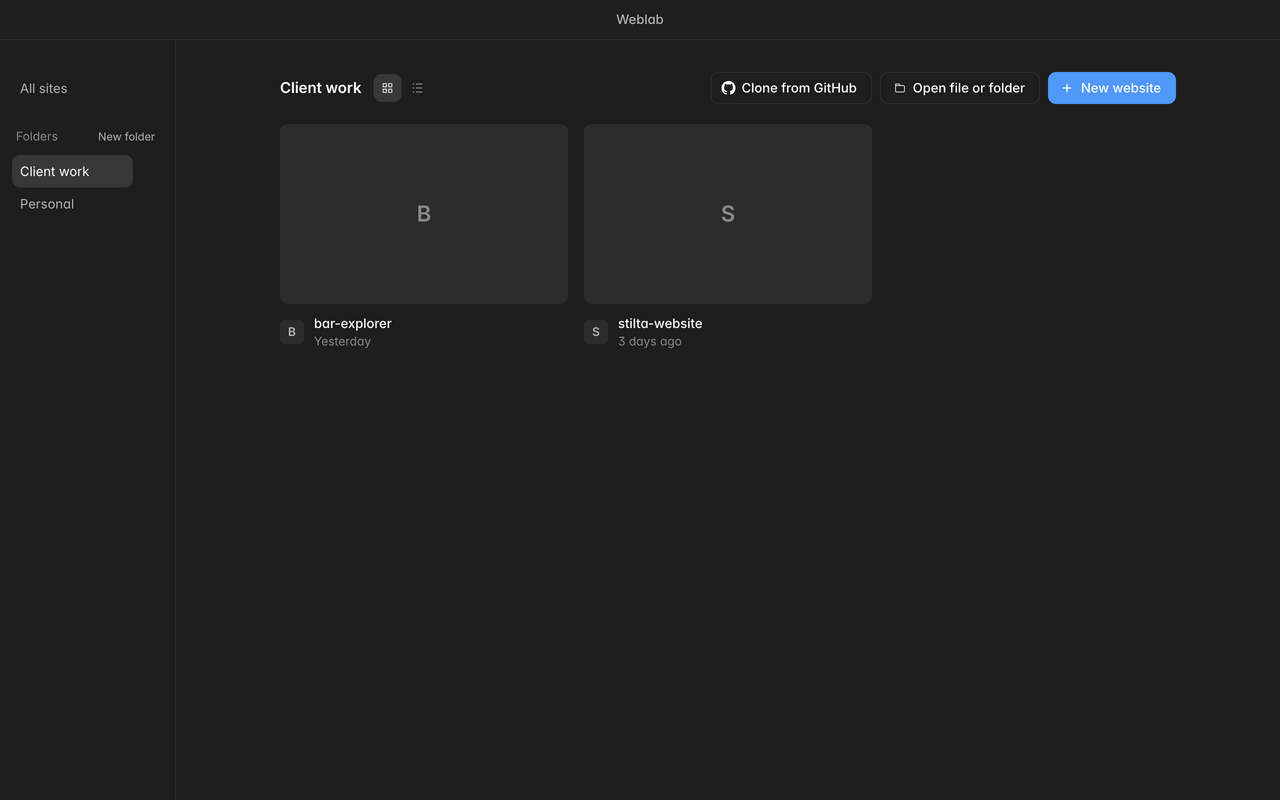
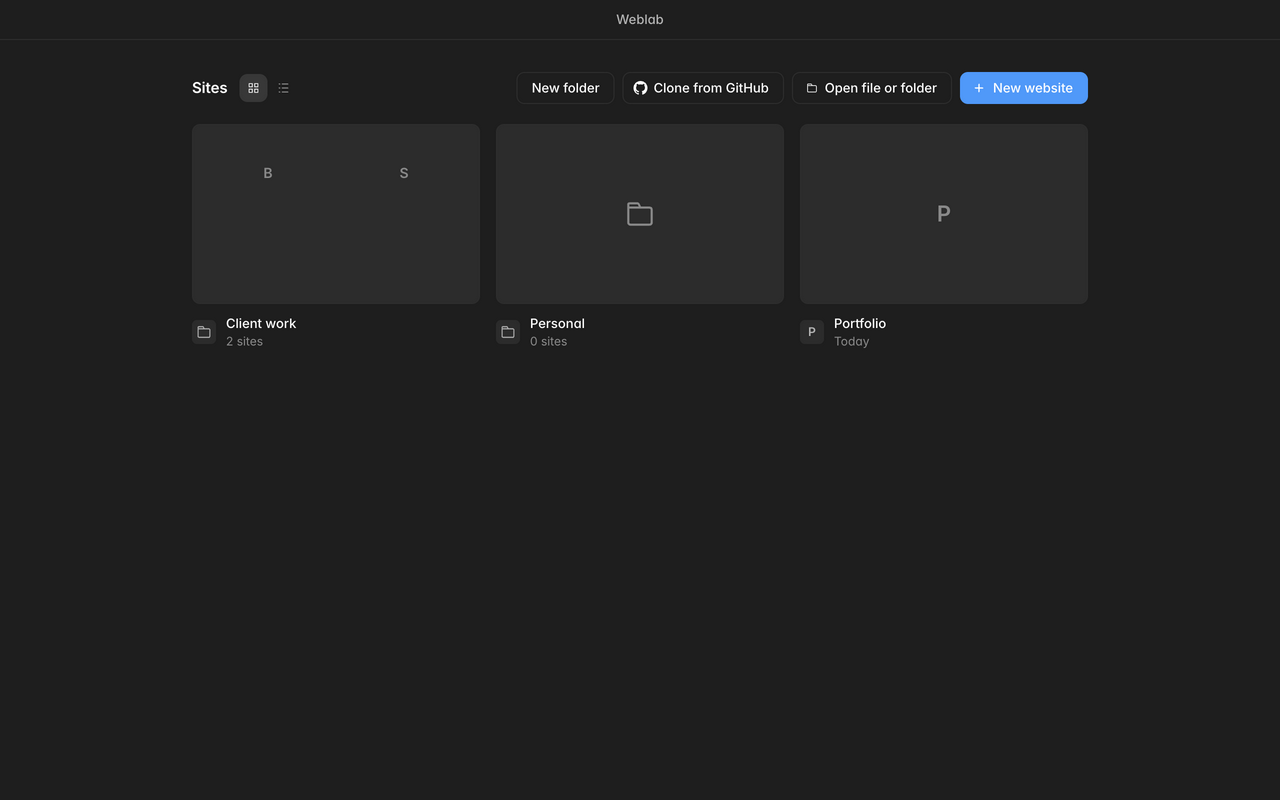
Show site folders as cards in the project grid

diff --git a/apps/desktop-local/apps/desktop/renderer/app.js b/apps/desktop-local/apps/desktop/renderer/app.js
@@ -176,64 +176,74 @@ function closeDialog(id) {
   if (previous?.isConnected) {
     previous.focus();
   } else {
-    $("#all-sites").focus();
+    $("#new-folder").focus();
   }
   dialogFocus.delete(id);
 }
 
-function selectFolder(id) {
+async function selectFolder(id) {
+  const previous = selectedFolder;
   selectedFolder = id;
   dashError("");
-  renderSites();
+  await renderSites();
+  const target = selectedFolder
+    ? $("#all-sites")
+    : $$(".folder-open").find(
+        (button) => button.dataset.folderId === previous
+      ) || $("#new-folder");
+  target.focus();
 }
 
 $("#all-sites").addEventListener("click", () => selectFolder(null));
 $("#folder-show-all").addEventListener("click", () => selectFolder(null));
 
-function renderFolders() {
-  $("#all-sites").setAttribute(
-    "aria-current",
-    selectedFolder ? "false" : "page"
-  );
-  const list = $("#folders");
-  list.textContent = "";
-  for (const folder of folders) {
-    const row = document.createElement("li");
-    row.className = "folder-row";
-    const button = document.createElement("button");
-    button.type = "button";
-    button.className = "folder-button";
-    button.textContent = folder.name;
-    button.title = folder.name;
-    button.setAttribute(
-      "aria-current",
-      folder.id === selectedFolder ? "page" : "false"
-    );
-    button.addEventListener("click", () => selectFolder(folder.id));
-    const more = document.createElement("button");
-    more.type = "button";
-    more.className = "more";
-    more.setAttribute("aria-label", `Actions for ${folder.name}`);
-    more.innerHTML = MORE_ICON;
-    const menu = async (event) => {
-      event.preventDefault();
-      try {
-        const result = await api.folders.menu(folder.id);
-        if (result === "rename") {
-          openFolderDialog(folder);
-        }
-        if (result === "removed") {
-          renderSites();
-        }
-      } catch (error) {
-        dashError(error.message || "Couldn’t open the folder menu.");
-      }
-    };
-    more.addEventListener("click", menu);
-    row.addEventListener("contextmenu", menu);
-    row.append(button, more);
-    list.append(row);
+function folderItem(folder, sites) {
+  const row = document.createElement("li");
+  row.className = "site folder-card";
+  const open = document.createElement("button");
+  open.type = "button";
+  open.className = "folder-open";
+  open.dataset.folderId = folder.id;
+  open.setAttribute("aria-label", `Open ${folder.name}, ${sites.length} sites`);
+  open.addEventListener("click", () => selectFolder(folder.id));
+  row.innerHTML =
+    '<div class="site-thumb folder-preview"></div><div class="site-identity"><div class="site-icon"><svg aria-hidden="true"><use href="#i-folder" /></svg></div><div class="site-text"><div class="site-name"></div><div class="site-when"></div></div></div>';
+  const preview = row.querySelector(".folder-preview");
+  for (const site of sites.slice(0, 4)) {
+    preview.append(thumb(site));
   }
+  if (!sites.length) {
+    preview.innerHTML =
+      '<svg aria-hidden="true"><use href="#i-folder" /></svg>';
+  }
+  row.querySelector(".site-name").textContent = folder.name;
+  row.querySelector(".site-when").textContent =
+    `${sites.length} ${sites.length === 1 ? "site" : "sites"}`;
+  row.append(open);
+  const more = document.createElement("button");
+  more.type = "button";
+  more.className = "more";
+  more.setAttribute("aria-label", `Actions for ${folder.name}`);
+  more.innerHTML = MORE_ICON;
+  const menu = async (event) => {
+    event.preventDefault();
+    event.stopPropagation();
+    try {
+      const result = await api.folders.menu(folder.id);
+      if (result === "rename") {
+        openFolderDialog(folder);
+      }
+      if (result === "removed") {
+        renderSites();
+      }
+    } catch (error) {
+      dashError(error.message || "Couldn’t open the folder menu.");
+    }
+  };
+  more.addEventListener("click", menu);
+  row.addEventListener("contextmenu", menu);
+  row.append(more);
+  return row;
 }
 
 function openFolderDialog(folder = null) {
@@ -254,7 +264,9 @@ function closeFolderDialog() {
   }
 }
 
-$("#new-folder").addEventListener("click", () => openFolderDialog());
+for (const button of $$("[data-action=folder], #new-folder")) {
+  button.addEventListener("click", () => openFolderDialog());
+}
 $("#folder-cancel").addEventListener("click", closeFolderDialog);
 $("#folder-dialog").addEventListener("mousedown", (event) => {
   if (event.target.id === "folder-dialog") {
@@ -731,14 +743,28 @@ async function renderSites() {
   if (selectedFolder && !folders.some((item) => item.id === selectedFolder)) {
     selectedFolder = null;
   }
-  renderFolders();
   const folder = folders.find((item) => item.id === selectedFolder);
+  $("#all-sites").hidden = !folder;
+  $("#folder-divider").hidden = !folder;
   $("#sites-heading").textContent = folder ? folder.name : "Sites";
+  if (!selectedFolder) {
+    for (const group of folders) {
+      ul.append(
+        folderItem(
+          group,
+          list.filter((site) => site.folderId === group.id)
+        )
+      );
+    }
+  }
   const visibleSites = selectedFolder
     ? list.filter((site) => site.folderId === selectedFolder)
-    : list;
-  $(".dash").hidden = !selectedFolder && list.length === 0;
-  $("#empty").hidden = Boolean(selectedFolder) || list.length > 0;
+    : list.filter(
+        (site) => !folders.some((group) => group.id === site.folderId)
+      );
+  const hasItems = list.length > 0 || folders.length > 0;
+  $(".dash").hidden = !(selectedFolder || hasItems);
+  $("#empty").hidden = Boolean(selectedFolder) || hasItems;
   $("#folder-empty").hidden = !selectedFolder || visibleSites.length > 0;
   for (const site of visibleSites) {
     ul.append(siteItem(site));

diff --git a/apps/desktop-local/apps/desktop/renderer/styles.css b/apps/desktop-local/apps/desktop/renderer/styles.css
@@ -940,72 +940,60 @@ button:disabled,
   cursor: default;
 }
 
-/* Site groups stay separate from the locations edited on disk. */
-.dashboard-layout {
-  display: grid;
-  grid-template-columns: 176px minmax(0, 1fr);
-}
+/* Library folders share the site grid and never change disk locations. */
 .dashboard-content {
   position: relative;
   min-width: 0;
   height: 100%;
 }
-.folder-nav {
-  padding: 32px 12px;
-  overflow-y: auto;
-  border-right: 1px solid var(--line);
-}
-.folder-nav-head {
+.sites-breadcrumb {
   display: flex;
-  gap: 4px;
+  gap: 12px;
   align-items: center;
-  justify-content: space-between;
-  margin: 20px 4px 6px;
-  font-size: 12px;
-  color: var(--text-3);
-}
-.folder-nav-head .link {
-  font-size: 11px;
-}
-.folder-list {
-  padding: 0;
-  margin: 0;
-  list-style: none;
-}
-.folder-row {
-  display: flex;
-  gap: 2px;
-  align-items: center;
-  border-radius: var(--radius);
-}
-.folder-button {
-  display: block;
-  width: 100%;
   min-width: 0;
-  padding: 7px 8px;
+}
+.sites-breadcrumb h1 {
   overflow: hidden;
   text-overflow: ellipsis;
-  color: var(--text-2);
-  text-align: left;
   white-space: nowrap;
-  background: none;
+}
+.sites-breadcrumb .link {
+  font-size: 16px;
+}
+#folder-divider {
+  color: var(--text-3);
+}
+.folder-preview {
+  display: grid;
+  grid-template-rows: repeat(2, minmax(0, 1fr));
+  grid-template-columns: repeat(2, minmax(0, 1fr));
+  gap: 6px;
+  padding: 10px;
+}
+.folder-preview > .site-thumb {
+  width: 100%;
+  height: 100%;
+  min-height: 0;
+  aspect-ratio: auto;
   border: 0;
-  border-radius: var(--radius);
 }
-.folder-button:hover,
-.folder-button[aria-current="page"] {
-  color: var(--text);
-  background: var(--hover);
+.folder-preview > svg {
+  grid-row: 1 / -1;
+  grid-column: 1 / -1;
+  place-self: center;
+  width: 48px;
+  height: 48px;
 }
-.folder-button:focus-visible {
-  outline: 2px solid var(--accent);
-  outline-offset: 1px;
+.folder-card .site-icon svg {
+  width: 24px;
+  height: 24px;
 }
-.folder-row .more {
-  flex: none;
+.sites.grid .folder-preview > .site-thumb {
+  grid-area: auto;
+  margin: 0;
+  font-size: 14px;
+  border-radius: 3px;
 }
-.folder-row:hover .more,
-.folder-row:focus-within .more,
 .site:focus-within .more {
   opacity: 1;
 }
@@ -1072,4 +1060,25 @@ button:disabled,
     flex-wrap: wrap;
     padding: 0 20px;
   }
+}
+
+.folder-card {
+  position: relative;
+}
+.folder-open {
+  position: absolute;
+  inset: 0;
+  z-index: 1;
+  width: 100%;
+  background: none;
+  border: 0;
+  border-radius: var(--radius);
+}
+.folder-open:focus-visible {
+  outline: 2px solid var(--accent);
+  outline-offset: 3px;
+}
+.folder-card .more {
+  position: relative;
+  z-index: 2;
 }

diff --git a/apps/desktop-local/apps/desktop/renderer/index.html b/apps/desktop-local/apps/desktop/renderer/index.html
@@ -216,27 +216,16 @@
 
       <!-- Dashboard -->
       <section class="screen dashboard-layout" data-screen="dashboard" hidden>
-        <nav aria-label="Site folders" class="folder-nav">
-          <button
-            aria-current="page"
-            class="folder-button"
-            id="all-sites"
-            type="button"
-          >
-            All sites
-          </button>
-          <div class="folder-nav-head">
-            <span>Folders</span
-            ><button class="link" id="new-folder" type="button">
-              New folder
-            </button>
-          </div>
-          <ul class="folder-list" id="folders"></ul>
-        </nav>
         <div class="dashboard-content">
           <div class="dash">
             <div class="dash-head">
-              <h1 id="sites-heading">Sites</h1>
+              <div class="sites-breadcrumb">
+                <button class="link" hidden id="all-sites" type="button">
+                  Sites
+                </button>
+                <span aria-hidden="true" hidden id="folder-divider">/</span>
+                <h1 id="sites-heading">Sites</h1>
+              </div>
               <!-- biome-ignore lint/a11y/useSemanticElements: a fieldset would add its own border, padding and min-width to this segmented control. -->
               <div
                 aria-label="Show sites as"
@@ -264,6 +253,9 @@
                 </button>
               </div>
               <div class="actions">
+                <button class="btn" id="new-folder" type="button">
+                  New folder
+                </button>
                 <button class="btn" data-action="clone" type="button">
                   <svg aria-hidden="true" class="btn-icon gh">
                     <use href="#i-github" />
@@ -305,6 +297,9 @@
               >
               <h1>Your sites will show up here</h1>
               <div class="actions">
+                <button class="btn" data-action="folder" type="button">
+                  New folder
+                </button>
                 <button class="btn" data-action="clone" type="button">
                   <svg aria-hidden="true" class="btn-icon gh">
                     <use href="#i-github" />

diff --git a/docs/feature-catalog.md b/docs/feature-catalog.md
@@ -871,7 +871,7 @@ See F-151 to F-160. Plus:
 | ID | Tags | Path | Purpose |
 |---|---|---|---|
 | F-810 | `#public` `#auth-gated` `#convex` | [src/lib/site-mode.ts](apps/web/client/src/lib/site-mode.ts) + [convex/lib/signInAllowlist.ts](apps/web/client/convex/lib/signInAllowlist.ts) | `NEXT_PUBLIC_SITE_MODE=local`: hero becomes centered title + Download for Mac, sign-up/sign-in CTAs, pricing, CMS, publish, collaboration and cloud-only pages are hidden or redirected; sign-in limited to `WEBLAB_SIGN_IN_ALLOWLIST` (Next `getCurrentUser`, Convex `getOptionalUser`/`requireUserJIT`, invite-only panel on `/sign-in`). Default `cloud` changes nothing. |
-| F-811 | `#desktop` | [apps/desktop-local](apps/desktop-local/) | Weblab for Mac: local-first Electron app (canvas editor on your running site, driven by Claude Code; components, images, pages, multi-window). Imported HTML sketches expose native dropdown options for selection and styling in Edit mode. The app checks GitHub releases on launch and offers a manual update check. Sites has metadata-only organization folders, full-path hover/details and guarded Finder-location recovery with explicit reconnect. Live editor source actions reject changed root identity. Own pnpm workspace, released as `desktop-local-v*` in this repo. Replaces the paused `apps/desktop`. |
+| F-811 | `#desktop` | [apps/desktop-local](apps/desktop-local/) | Weblab for Mac: local-first Electron app (canvas editor on your running site, driven by Claude Code; components, images, pages, multi-window). Imported HTML sketches expose native dropdown options for selection and styling in Edit mode. The app checks GitHub releases on launch and offers a manual update check. Sites has metadata-only folder cards with preview collages, site counts and breadcrumb navigation, full-path hover/details and guarded Finder-location recovery with explicit reconnect. Live editor source actions reject changed root identity. Own pnpm workspace, released as `desktop-local-v*` in this repo. Replaces the paused `apps/desktop`. |
 
 ## Change Protocol
 
@@ -903,7 +903,7 @@ This file is owned by **whoever ships the feature**. There is no central reviewe
 
 | Date | IDs added / changed | Note |
 |---|---|---|
-| 2026-10-01 | F-811 | Sites organization folders, source details, checked bookmark recovery/manual reconnect, and active editor root identity guards. No physical move command; packaged Mac recovery proof remains open. T-853. |
+| 2026-10-01 | F-811 | Sites folder cards in the shared grid, source details, checked bookmark recovery/manual reconnect, and active editor root identity guards. No physical move command; packaged Mac recovery proof remains open. T-853. |
 | 2026-09-29 | F-811 | Mac editor adds Show/Hide for native dropdown options in Style, frame-coalesced canvas painting, and in-app checks for `desktop-local-v*` Mac releases. T-852. `#desktop`. |
 | 2026-07-07 | F-476 | Transcribe anti-spam cap moved from a per-process in-memory helper to a Convex-backed fleet-wide rolling-window limiter with bounded timestamp storage and daily stale-row cleanup. |
 | 2026-06-23 | F-081 | Production hydration fix: `clerk-auth-form` now normalizes blank `NEXT_PUBLIC_AUTH_PROVIDERS` to the documented `github,google` default so SSR and client render the same OAuth button list. |

diff --git a/docs/test-plan.md b/docs/test-plan.md
@@ -593,7 +593,7 @@ Per package (F-680 … F-705) at least one smoke test.
 | T-850 | F-810 | U + E | `convex/lib/signInAllowlist.test.ts`; build with `NEXT_PUBLIC_SITE_MODE=local` → visit `/`, `/pricing`, `/download`, `/sign-in` signed out, signed in as a non-listed account, signed in as owner | Unit: allowlist parsing + env gate. E2E: hero shows Download for Mac only; `/pricing` → `/`; download is one Mac button; new email on OTP form shows invite-only error; non-listed account sees invite-only panel; owner reaches `/projects` | `[ ]` manual (unit `[x]`) |
 | T-851 | F-811 | U + M | `cd apps/desktop-local && pnpm install && pnpm test`; install the notarized DMG on a clean Mac | All package tests pass; app opens with no Gatekeeper warning, opens a local site folder, edits apply to source | `[ ]` manual |
 | T-852 | F-811 | U + M | Run the dropdown, viewport and update tests; open an HTML sketch with JavaScript-built `<option>` elements in the Mac app | Show/Hide appears at the right of Style, selecting an option exposes its styles without changing the form value, wheel pan stays steady, and a newer Mac DMG is offered in the app | `[ ]` manual |
-| T-853 | F-811 | U + M | Create/rename/remove folders and move cards; touch/reopen site; move a closed folder then reopen/details; replace its old path; reconnect legacy/copy/HTML; attempt relink while open in another window; move a root while edits/uploads queue | Organization survives store writes and never moves disk files. Checked identity preserves site ID after a known move. Uncertain/legacy choices confirm. Invalid HTML/Git pointers and active relinks reject. Root drift blocks new/queued source actions and requests agent cancellation. Packaged/restart/offline-volume and full live UI proof remain open. | `[ ]` manual |
+| T-853 | F-811 | U + M | Create/rename/remove folder cards and move sites; open a folder and return through Sites; check collage/count and grid/list; touch/reopen site; move a closed folder then reopen/details; replace its old path; reconnect legacy/copy/HTML; attempt relink while open in another window; move a root while edits/uploads queue | Organization survives store writes and never moves disk files. Checked identity preserves site ID after a known move. Uncertain/legacy choices confirm. Invalid HTML/Git pointers and active relinks reject. Root drift blocks new/queued source actions and requests agent cancellation. Packaged/restart/offline-volume and full live UI proof remain open. | `[ ]` manual |
 
 ---
 

diff --git a/apps/desktop-local/apps/desktop/README.md b/apps/desktop-local/apps/desktop/README.md
@@ -11,6 +11,6 @@ Drag a website folder from Finder onto the Weblab Dock icon or onto a Weblab win
 On the dashboard, Command-click a site or right-click it and choose **Open in New Window**. Each window runs its own website. **Back** returns that window to the dashboard, while closing a window stops only its website. If a website is already open, Weblab brings its window forward.
 
 
-Sites can be grouped in organization folders. These folders only change the list; they do not move files on disk. Show details shows the full editing location and lets you locate a moved folder. New sites use checked macOS bookmarks where available. Existing sites need one explicit folder confirmation. A copied folder is never silently treated as the old project.
+Sites can be grouped in folder cards alongside ungrouped sites. Each card shows previews and a site count. Open it to see its sites, then use Sites above the grid to return. These folders only change the list; they do not move files on disk. Show details shows the full editing location and lets you locate a moved folder. New sites use checked macOS bookmarks where available. Existing sites need one explicit folder confirmation. A copied folder is never silently treated as the old project.
 
 Close a site before moving it in Finder. Reopening can recover a checked same-volume move; otherwise use Locate folder and confirm both locations. Relinking is blocked while any window still uses the site. The editor refuses new work when its root changes and attempts to cancel running agents, but cannot undo a command already executing or repair another tool's absolute paths. Keep Git linked-worktree pointers valid with your Git tool; Weblab does not repair them automatically.
